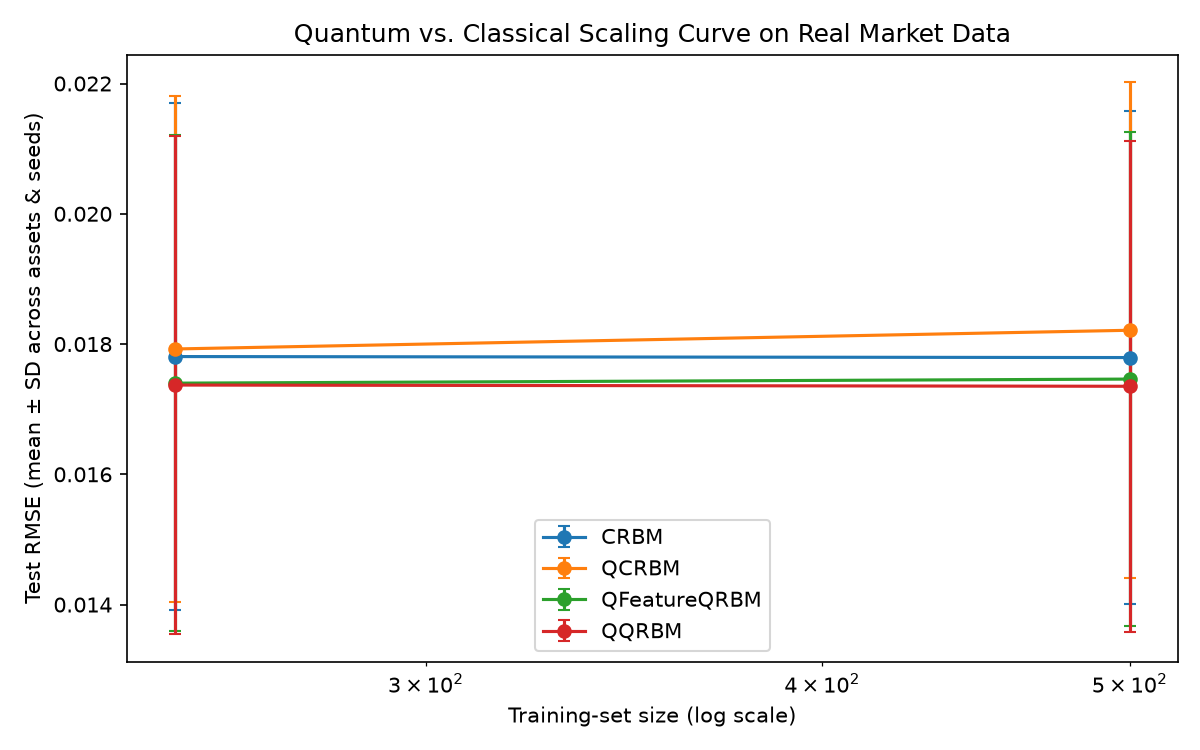
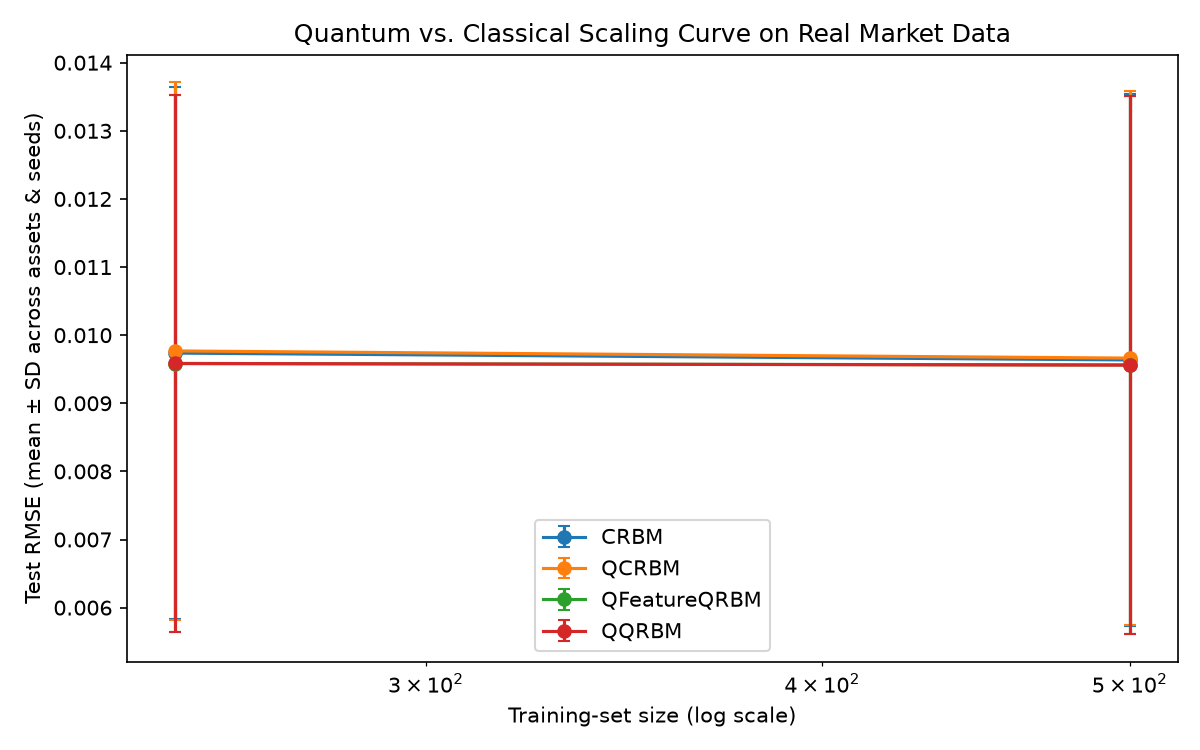
Full training/testing run on the research-calibrated dataset
Ran the complete pipeline (python run_local.py --synthetic) against the
new GJR-GARCH(1,1) + Student-t dataset: AAPL, JPM, BTC-USD proxies,
train sizes {250, 500}, seeds {0, 1}, 15 epochs, all 4 architectures
(CRBM, QCRBM, QFeatureQRBM, QQRBM) -- 48/48 runs, no failures. Every
epoch printed its validation RMSE and validation directional accuracy
(see the full log), and the best-validation-RMSE epoch was selected per
run rather than reporting a fixed final epoch.

Also fixes a cache-path bug introduced by this run: generate_research_
calibrated_prices() was writing to the same data/prices_synthetic.csv
used as the canonical, already-delivered full-7-asset dataset, so
running with a ticker subset (--tickers AAPL JPM BTC-USD) silently
overwrote it down to 3 assets. Runs against a ticker subset now cache to
data/prices_synthetic_run.csv instead, leaving the canonical dataset
file untouched. Restored data/prices_synthetic.csv and
data/log_returns.csv to the full 7-asset version (regenerated with the
same seed -- byte-identical to what was already committed/delivered).

Headline result (still calibrated synthetic data, not real markets):
  RMSE:  CRBM 0.0097, QCRBM 0.0097, QFeatureQRBM 0.0096, QQRBM 0.0096
  DirAcc: all four ~0.50-0.51 (coin-flip level, as expected)
Even with volatility clustering and fat tails added to the data (unlike
the earlier plain-Gaussian proxy), the sign of the next return is still
not predictable above chance -- consistent with how the data was
[…]

diff --git a/run_local.py b/run_local.py
@@ -88,13 +88,18 @@ def main():
         print("STEP 1: Downloading / loading market data")
     print("=" * 70)
     if args.synthetic:
+        # Cache under a run-scoped filename, distinct from the canonical
+        # full-universe data/prices_synthetic.csv (generated once for all
+        # DEFAULT_TICKERS and delivered/committed separately) -- otherwise a
+        # run against a ticker subset (e.g. --tickers AAPL) would silently
+        # overwrite the canonical dataset file with just that subset.
         prices = generate_research_calibrated_prices(
-            args.tickers, cache_path=f"{args.data_dir}/prices_synthetic.csv"
+            args.tickers, cache_path=f"{args.data_dir}/prices_synthetic_run.csv"
         )
     else:
         prices = download_prices(args.tickers, cache_path=f"{args.data_dir}/prices_raw.csv")
     log_returns = compute_log_returns(prices)
-    log_returns.to_csv(f"{args.data_dir}/log_returns.csv")
+    log_returns.to_csv(f"{args.data_dir}/log_returns_run.csv")
     print(f"Assets: {list(log_returns.columns)}")
     print(f"History: {log_returns.index.min()} -> {log_returns.index.max()} "
           f"({len(log_returns)} observations)")
